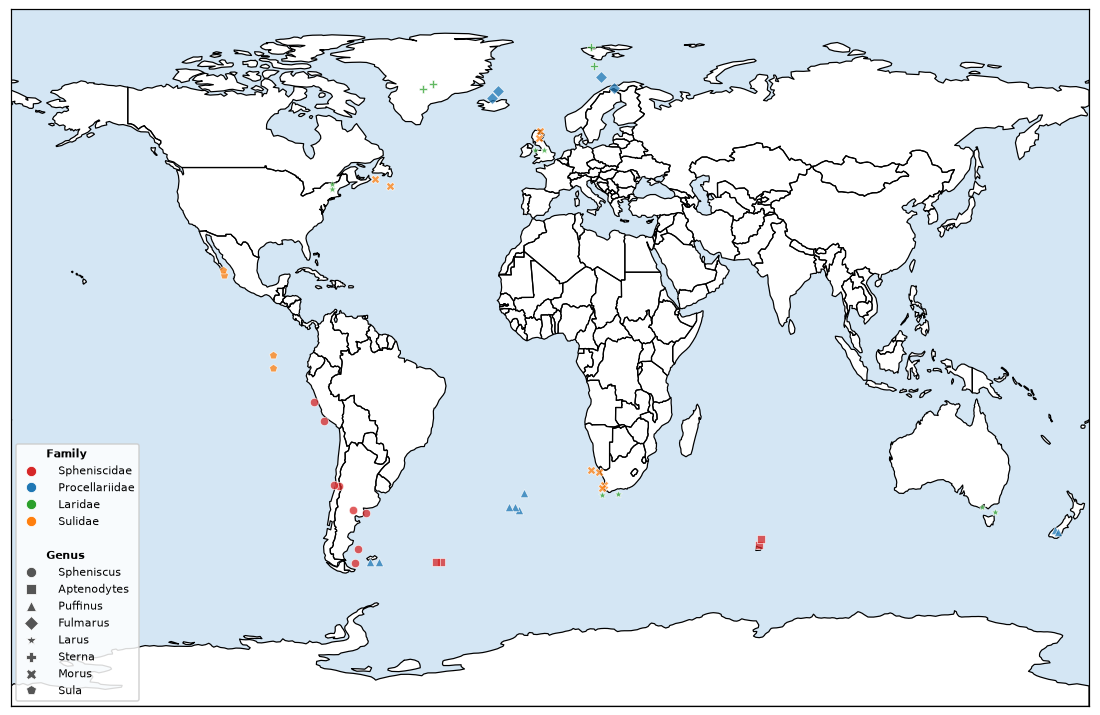
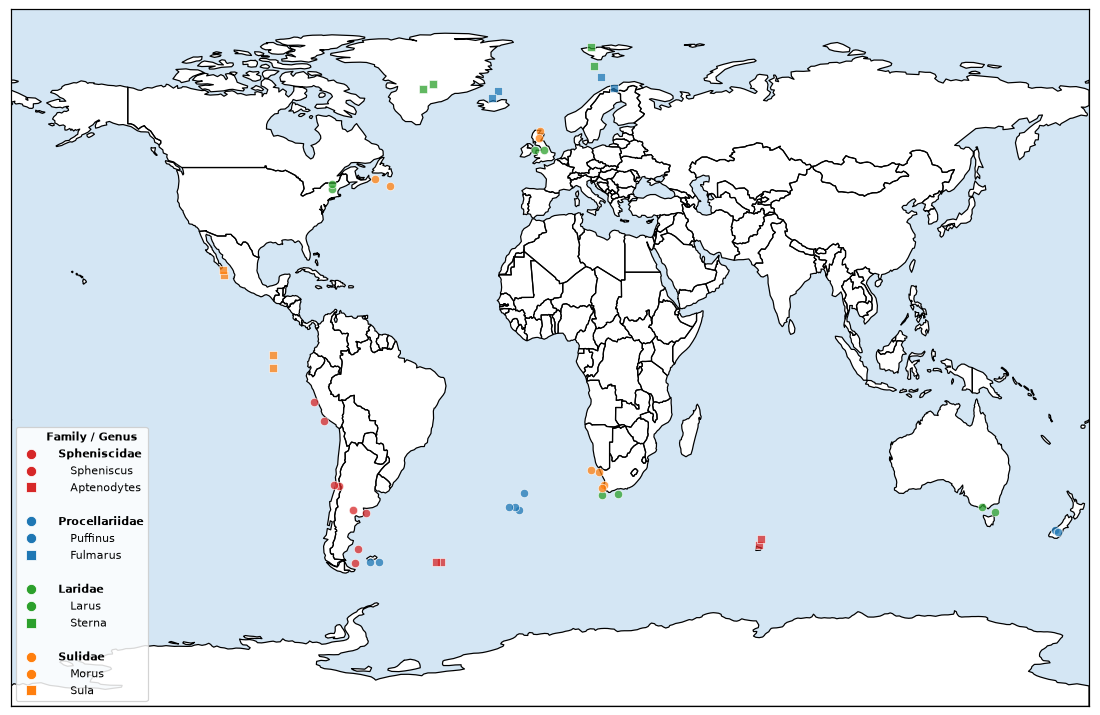
Refresh the README and screenshots for the new features
The README gains a "Publication-ready figures" section (Combine columns,
Apply publication style, Save map as), a Combine columns note under CSV
format, the real list of save formats and --install-deps, and the
renderer package in the project layout.

Every image in docs/images is regenerated. Three are new: the Combine
columns dialog, the app after the publication style, and a publication
style map. make_app_screenshot.py now uses the app's light theme, as the
app itself does. The publication preset's point outline moves to
pymappr.styles, so make_screenshots.py can use it without importing Tk.

diff --git a/scripts/make_app_screenshot.py b/scripts/make_app_screenshot.py
@@ -1,3 +1,14 @@
+"""Screenshot the running app for the README.
+
+Needs a display. On Linux, run it under Xvfb with a screen bigger than the
+app's 1280x800 window:
+
+    xvfb-run -a -s "-screen 0 1600x1000x24" python scripts/make_app_screenshot.py
+
+Use a Python whose Tk draws text through Xft (distribution and python.org
+builds do); without it, symbols such as the heart come out as ``\\u2665``.
+"""
+
 from __future__ import annotations
 
 import sys
@@ -8,11 +19,21 @@ sys.path.insert(0, str(REPO_ROOT))
 
 import tkinter as tk  # noqa: E402
 
+import sv_ttk  # noqa: E402
+
 from pymappr.app import PyMapprApp  # noqa: E402
 from pymappr.data_loader import load_csv  # noqa: E402
 from pymappr.layers import LayerStore  # noqa: E402
 
 OUT_DIR = REPO_ROOT / "docs" / "images"
+
+
+def new_root(geometry: str) -> tk.Tk:
+    """A Tk root in the app's light theme, as ``pymappr.app.main`` sets up."""
+    root = tk.Tk()
+    root.geometry(geometry)
+    sv_ttk.set_theme("light")
+    return root
 
 
 def load_sample(app: PyMapprApp, name: str, group_by: str | None = None) -> None:
@@ -63,8 +84,7 @@ def grab_widget(widget, path: Path) -> None:
 
 
 def shot_main_and_layers(store: LayerStore) -> None:
-    root = tk.Tk()
-    root.geometry("1500x950+0+0")
+    root = new_root("1500x950+0+0")
     app = PyMapprApp(root, store, restore_session=False)
     root.update()
 
@@ -111,17 +131,45 @@ def shot_main_and_layers(store: LayerStore) -> None:
     root.destroy()
 
 
+def shot_publication(store: LayerStore) -> None:
+    """Genus and Species joined into one legend line, in the publication
+    style: the Combine columns dialog, then the map it gives."""
+    root = new_root("1500x950+0+0")
+    app = PyMapprApp(root, store, restore_session=False)
+    root.update()
+
+    load_sample(app, "south_america_beetles.csv", group_by="Genus")
+    app.panel.continent_var.set("South America")
+    app.on_continent()
+    app.panel.orientation_var.set("Portrait")
+    app.on_orientation()
+    app.panel.basemap_var.set("relief")
+    app.on_basemap()
+
+    def grab_and_accept() -> None:
+        dialog = next(w for w in root.winfo_children()
+                      if isinstance(w, tk.Toplevel))
+        grab_widget(dialog, OUT_DIR / "combine_columns.png")
+        dialog._accept()
+
+    # The real Data-tab handler: it waits on the dialog, which is grabbed
+    # and accepted with its defaults (the last two columns, space-joined).
+    root.after(500, grab_and_accept)
+    app.on_combine_columns()
+    app.on_publication_style()
+    select_tab(app.panel, "Data")
+    app.canvas.draw()
+    grab_window(root, OUT_DIR / "app_publication.png")
+    root.destroy()
+
+
 def shot_column_mapper() -> None:
     """The column-mapping dialog shown on every import."""
     from pymappr.data_loader import guess_mapping, read_table
     from pymappr.ui.column_mapper import ColumnMapperDialog
 
     csv = str(REPO_ROOT / "sample_data" / "south_america_beetles.csv")
-    root = tk.Tk()
-    root.geometry("900x650+0+0")
-    import sv_ttk
-
-    sv_ttk.set_theme("light")
+    root = new_root("900x650+0+0")
     root.update()
     frame = read_table(csv, headers=True)
     dialog = ColumnMapperDialog(
@@ -141,6 +189,7 @@ def main() -> int:
         print(err)
         return 1
     shot_main_and_layers(store)
+    shot_publication(store)
     shot_column_mapper()
     return 0
 

diff --git a/scripts/make_screenshots.py b/scripts/make_screenshots.py
@@ -23,14 +23,15 @@ from matplotlib.figure import Figure  # noqa: E402
 REPO_ROOT = Path(__file__).resolve().parent.parent
 sys.path.insert(0, str(REPO_ROOT))
 
-from pymappr.data_loader import load_csv  # noqa: E402
+from pymappr.data_loader import combine_name_columns, load_csv  # noqa: E402
 from pymappr.decorations import CompassOptions  # noqa: E402
 from pymappr.layers import LayerStore  # noqa: E402
 from pymappr.layout import layout_points, with_default_title  # noqa: E402
-from pymappr.legend import LegendOptions  # noqa: E402
+from pymappr.legend import PUBLICATION_LEGEND, LegendOptions  # noqa: E402
 from pymappr.projects import DatasetEntry  # noqa: E402
 from pymappr.renderer import MapRenderer  # noqa: E402
-from pymappr.styles import DEFAULT_PALETTE  # noqa: E402
+from pymappr.styles import (BLACK_AND_WHITE, DEFAULT_PALETTE,  # noqa: E402
+                            PUBLICATION_POINT_EDGE)
 
 DPI = 110
 SAMPLES = REPO_ROOT / "sample_data"
@@ -46,10 +47,10 @@ def sample(name: str, **styling) -> DatasetEntry:
 
 
 def show_points(renderer: MapRenderer, entry: DatasetEntry,
-                **legend) -> None:
+                palette: list[str] = DEFAULT_PALETTE, **legend) -> None:
     """Draw a dataset and its legend the way the app does."""
     options = with_default_title([entry], LegendOptions(**legend))
-    layout = layout_points([entry], options, DEFAULT_PALETTE)
+    layout = layout_points([entry], options, palette)
     renderer.set_points(
         [(label, style, rows["lon"].to_numpy(), rows["lat"].to_numpy())
          for label, style, rows in layout.groups],
@@ -81,6 +82,21 @@ def readme_scenes(store: LayerStore) -> dict:
     r.set_extent("South America")
     show_points(r, beetles, location="upper right", fontsize=7)
     scenes["beetles_landscape.png"] = (r, False)
+
+    # The publication style: Genus and Species combined into one legend
+    # line, black & white outlined markers in varied shapes, and a plain
+    # boxed legend with italic names.
+    dataset, label = combine_name_columns(beetles.dataset,
+                                          ["Genus", "Species"])
+    r = new_renderer(store)
+    r.set_layer("countries", True)
+    r.set_extent("South America")
+    r.set_orientation("portrait")
+    r.set_point_edge(*PUBLICATION_POINT_EDGE)
+    show_points(r, DatasetEntry(dataset=dataset, name=beetles.name,
+                                group_by=label, vary_symbols=True),
+                BLACK_AND_WHITE, location="lower right", **PUBLICATION_LEGEND)
+    scenes["publication_style.png"] = (r, True)
 
     # Seabirds grouped by family on Mollweide, with a plain legend.
     r = new_renderer(store)

diff --git a/pymappr/app.py b/pymappr/app.py
@@ -37,7 +37,8 @@ from pymappr.projects import PROJECT_EXTENSION, DatasetEntry  # noqa: E402
 from pymappr.renderer import MapRenderer  # noqa: E402
 from pymappr.styles import (BLACK_AND_WHITE_NAME,  # noqa: E402
                             DEFAULT_PALETTE_NAME, LEGIBLE_MARKER_LIMIT,
-                            POINT_EDGE_COLOR, POINT_EDGE_WIDTH, PointStyle,
+                            POINT_EDGE_COLOR, POINT_EDGE_WIDTH,
+                            PUBLICATION_POINT_EDGE, PointStyle,
                             apply_override, marker_load, resolve_nesting,
                             row_key)
 from pymappr.ui.column_mapper import ColumnMapperDialog  # noqa: E402
@@ -50,9 +51,9 @@ from pymappr.ui.projects_dialog import ProjectsDialog  # noqa: E402
 
 MAX_SKIPPED_SHOWN = 12
 UNTITLED = "Untitled"
-# The point and export half of the "Publication style" preset (the legend
-# half is pymappr.legend.PUBLICATION_LEGEND).
-PUBLICATION_POINT_EDGE = ("#000000", 0.6)
+# The export DPI of the "Publication style" preset (the point and legend
+# halves are pymappr.styles.PUBLICATION_POINT_EDGE and
+# pymappr.legend.PUBLICATION_LEGEND).
 PUBLICATION_DPI = "600"
 PROJECT_FILETYPES = [("PyMappr project", "*" + PROJECT_EXTENSION),
                      ("All files", "*.*")]

diff --git a/pymappr/styles.py b/pymappr/styles.py
@@ -13,7 +13,7 @@ __all__ = ["PointStyle", "MARKERS", "OPEN_SUFFIX", "DEFAULT_PALETTE",
            "attribute_style_maps", "style_by_attributes",
            "LEGIBLE_MARKER_LIMIT", "nests_within", "resolve_nesting",
            "owner_map", "marker_load", "apply_override", "ROW_SEP",
-           "row_key"]
+           "row_key", "PUBLICATION_POINT_EDGE"]
 
 # How many distinct shapes stay tellable apart at map point sizes. MARKER_CYCLE
 # runs much longer, but past roughly this many the tail (triangle down, thin
@@ -86,6 +86,10 @@ DEFAULT_PALETTE_NAME = "Default"
 # colour instead). White keeps overlapping points apart on a light map.
 POINT_EDGE_COLOR = "#ffffff"
 POINT_EDGE_WIDTH = 0.5
+# The point half of the "Publication style" preset: a thin black outline, so
+# the white points of the black & white palette still show (the legend half
+# is pymappr.legend.PUBLICATION_LEGEND).
+PUBLICATION_POINT_EDGE = ("#000000", 0.6)
 
 
 def palette_for(name: str | None) -> list[str]:

diff --git a/README.md b/README.md
@@ -16,7 +16,8 @@ Python as an offline desktop application.
 - Group/color/symbol styling by any name column, including two-attribute
   styling (e.g. color by Family, symbol by Genus) with a compact legend.
 - Legend customization: position, columns, marker scale, spacing, and
-  bold / italic / underline for the labels and title.
+  bold / italic / underline for the labels and title. Customize legend
+  renames, hides, reorders and restyles individual rows.
 - ~30 toggleable Natural Earth layers (borders, cities, water, physical
   features, infrastructure) with automatic 110m/50m/10m detail by zoom.
 - Six map projections plus a Globe (orthographic) view and regional
@@ -35,10 +36,27 @@ Python as an offline desktop application.
   shapes, a plain boxed legend with italic names, and 600 DPI export.
 - Projects (`.pymappr` files) with autosave/restore, and export/import for
   sharing.
-- Export the current map as PNG, or as a self-contained Python
-  (matplotlib) or R (ggplot2) script that reproduces it outside PyMappr.
+- Save the map as PNG, JPEG, TIFF, PDF, SVG or WebP at the DPI you choose,
+  or export it as a self-contained Python (matplotlib) or R (ggplot2) script
+  that reproduces it outside PyMappr. Run the script with `--install-deps`
+  to have it install what it needs.
+
+## Publication-ready figures
+
+![Beetle localities in the publication style: black and white markers and one italic "Genus species" per legend line](docs/images/publication_style.png)
+
+1. **Data tab > Combine columns...** joins Genus and Species into one name
+   column and groups by it, so each legend line reads *Eleusis chapadensis*.
+   The source file is left as it is.
+2. **Map tab > Apply publication style** switches to black & white points
+   with black outlines and varied shapes, a plain boxed legend with italic
+   names, and 600 DPI export. Rows you restyled with Customize legend keep
+   their styling.
+3. **File > Save map as...** and pick TIFF or PDF.
 
 ## Screenshots
+
+![The app after Combine columns and Apply publication style](docs/images/app_publication.png)
 
 ![Landscape and portrait orientation](docs/images/app_portrait.png)
 
@@ -61,6 +79,11 @@ you confirm the mapping on import:
 |-------------|---------------|-------------|-------------|
 | Eleusis     | chapadensis   | -68.4349    | -12.3541    |
 | Xanthopygus | orinocensis   | 67°33'37"W  | 10°18'29"N  |
+
+With Genus and Species in separate columns like this, **Combine columns...**
+on the Data tab puts both on one legend line without editing the file:
+
+![Combine columns dialog joining Genus and Species](docs/images/combine_columns.png)
 
 Sample datasets in [`sample_data/`](sample_data) for beetles, seabirds, and
 orchids.
@@ -97,8 +120,9 @@ python -m pymappr
 
 ```bash
 python -m pytest tests/            # the test suite (a few tests need the map data)
-python scripts/make_screenshots.py # regenerate the README images
+python scripts/make_screenshots.py # regenerate the README map images
 python scripts/make_screenshots.py --out preview --all  # render check, more layers
+python scripts/make_app_screenshot.py  # the app screenshots (needs a display)
 ```
 
 Project layout:
@@ -108,7 +132,9 @@ Project layout:
 - `pymappr/projects.py` - project files, settings, session autosave
 - `pymappr/layers.py` - Natural Earth layer store and on-disk frame cache
 - `pymappr/projections.py` - map projections (pyproj)
-- `pymappr/renderer.py` - matplotlib map rendering
+- `pymappr/renderer/` - matplotlib map rendering, one module per concern
+  (view, layers, overlays, labels, points and legend, mouse), plus the
+  layer style tables shared with code export
 - `pymappr/styles.py` - point styles and group/color-by styling
 - `pymappr/legend.py` - legend options and legend rows
 - `pymappr/layout.py` - what every dataset draws (shared by the app and code
